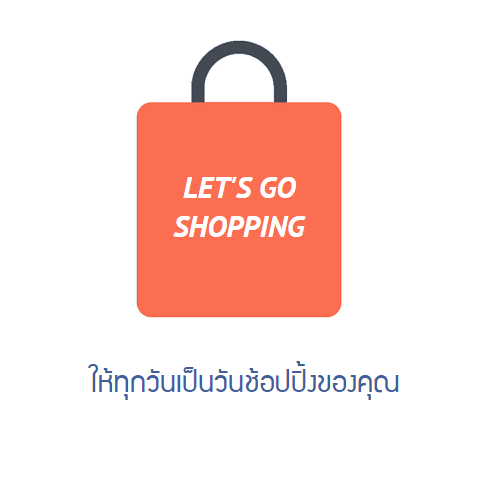
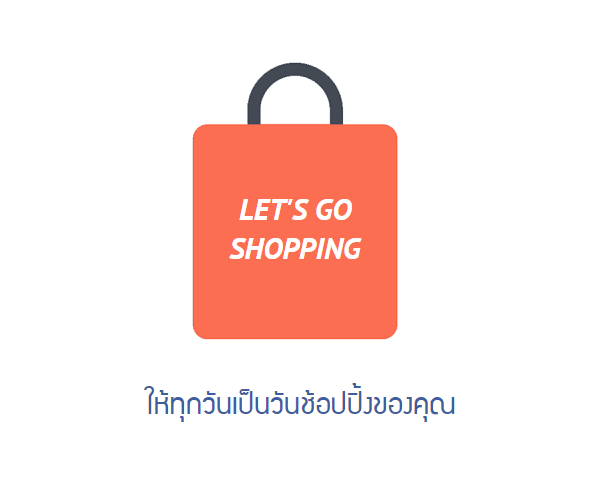
updated

Changed region(s): [[0.27, 0.06, 0.69, 0.69], [0.18, 0.72, 0.81, 0.84]]

diff --git a/public/__js/blackbox/common.js b/public/__js/blackbox/common.js
@@ -1,8 +1,11 @@
 class Common {
 
-  constructor() {}
+  constructor() {
+    this.shadowDisplayed = false;
+  }
 
   load(){
+    this.headerShadowDisplay();
     this.bind();
   }
 
@@ -142,16 +145,21 @@ class Common {
     });
 
     $(document).scroll(function() {
-      // $(this).scrollTop();
-      if($(this).scrollTop() == 0) {
-        $('.header-fixed-top').removeClass('header-shadow');
-        $('.sub-header-nav-fixed-top').removeClass('sub-header-shadow');
-      }else{
-        $('.header-fixed-top').addClass('header-shadow');
-        $('.sub-header-nav-fixed-top').addClass('sub-header-shadow');
-      }
+      _this.headerShadowDisplay();
     });
 
+  }
+
+  headerShadowDisplay() {
+    if(($(document).scrollTop() == 0) && this.shadowDisplayed) {
+      $('.header-fixed-top').removeClass('header-shadow');
+      $('.sub-header-nav-fixed-top').removeClass('sub-header-shadow');
+      this.shadowDisplayed = false;
+    }else if(!this.shadowDisplayed) {
+      $('.header-fixed-top').addClass('header-shadow');
+      $('.sub-header-nav-fixed-top').addClass('sub-header-shadow');
+      this.shadowDisplayed = true;
+    }
   }
 
 }

diff --git a/public/__css/pages/user/login.css b/public/__css/pages/user/login.css
@@ -53,7 +53,7 @@ input[type="password"] {
 	position: fixed;
 	top: 25%;
 	left: 18%;
-	width: 500px;
+	width: 600px;
 	height: 500px;
 	background-repeat: no-repeat;
 	background-position: center;
@@ -101,7 +101,7 @@ input[type="password"] {
 	display: block;
 }
 
-@media only screen and (max-width : 1200px) {
+@media only screen and (max-width : 1400px) {
 	.login-logo {
 		padding-left: 0;
 	}

diff --git a/app/Http/Controllers/UserController.php b/app/Http/Controllers/UserController.php
@@ -27,7 +27,7 @@ class UserController extends Controller
       'footer' => false,
     );
 
-    $bannerImages = array('img1.png','img2.png');
+    $bannerImages = array('img1.png','img2.png','img3.png','img4.png','img5.png');
 
     $this->setData('bannerImage',$bannerImages[rand(0,count($bannerImages)-1)]);
 
